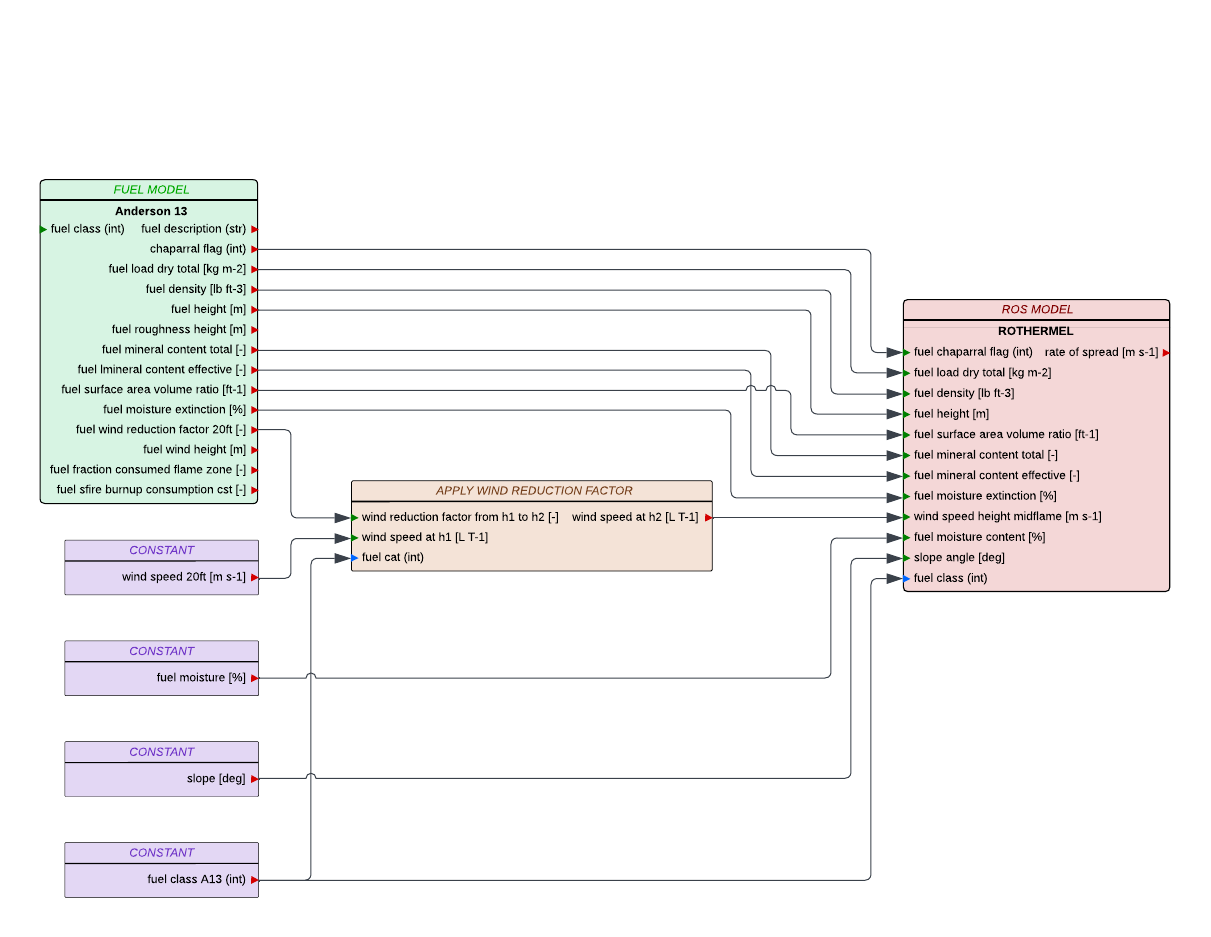
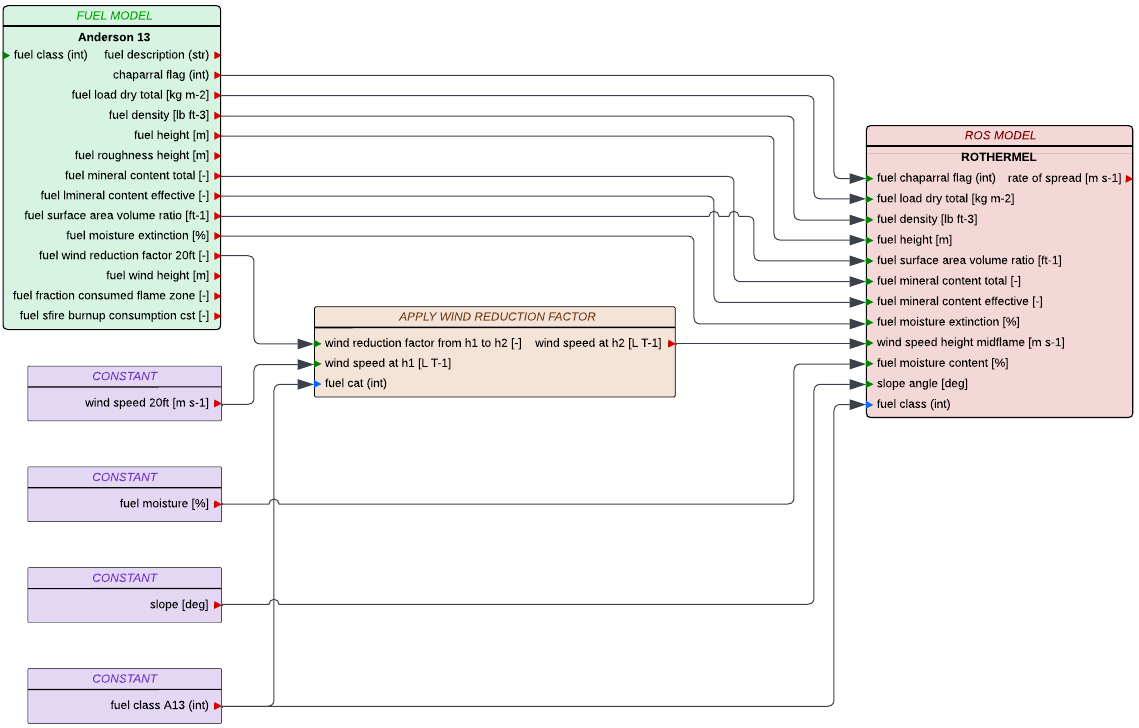
add blocks to information pages for Rothermel and Balbi

Changed region(s): [[0.0, 0.0, 1.0, 0.9973]]

diff --git a/docs/fire_models_info/22_rate_of_spread_models/03_Balbi2022.md b/docs/fire_models_info/22_rate_of_spread_models/03_Balbi2022.md
@@ -74,7 +74,9 @@ ros = rm.Balbi_2022_fixed_SFIRE.compute_ros(model_inputs)
 # compute the rate of spread with fuel category
 ros = rm.Balbi_2022_fixed_SFIRE.compute_ros(model_inputs, fuel_cat = 1)
 ```
-
+<div style="text-align: center;">
+    <img src="../../assets/diagram_blocks/ros_model/balbi2022.svg" alt="Block balbi"/>
+</div>
 ### Use with Anderson13 fuel model
 
 The [Anderson13](../21_fuel_models/02_Anderson.md) fuel model provides a set of fuel properties that can be linked to Balbi's inputs. The following diagram shows the workflow that can be used to connect Anderson fuel model and Balbi rate of spread model.

diff --git a/docs/fire_models_info/22_rate_of_spread_models/02_Rothermel.md b/docs/fire_models_info/22_rate_of_spread_models/02_Rothermel.md
@@ -69,6 +69,9 @@ ros = rm.Rothermel_SFIRE.compute_ros(model_inputs)
 # compute the rate of spread with fuel category
 ros = rm.Rothermel_SFIRE.compute_ros(model_inputs, fuel_cat = 1)
 ```
+<div style="text-align: center;">
+    <img src="../../assets/diagram_blocks/ros_model/rothermel.svg" alt="Block rothermel"/>
+</div>
 
 ### Use with Anderson13 fuel model
 
